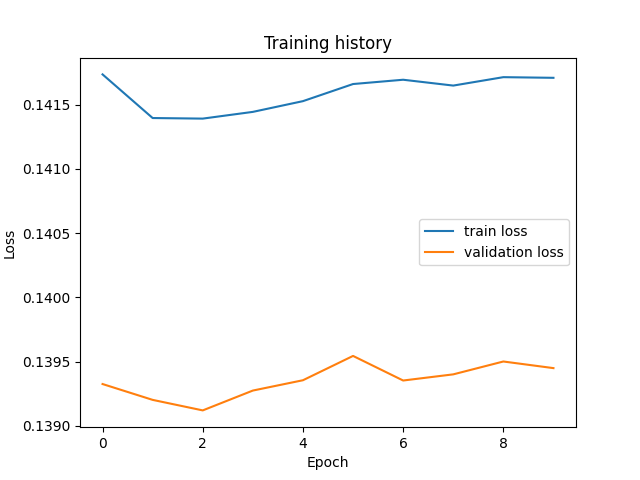
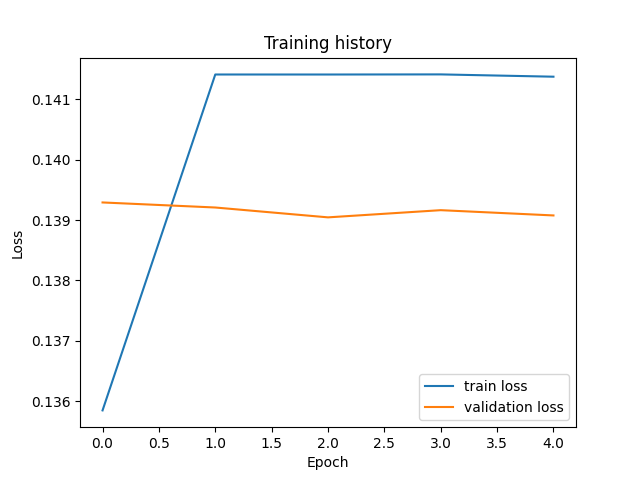
Updated training dataloader
Updated training dataloader to shuffle the dataset.

diff --git a/engine.py b/engine.py
@@ -69,17 +69,19 @@ def get_trainable_params(model, train_dataset, validation_dataset):
   EPOCHS: int
     The number of epochs to train for
   """
-  EPOCHS = 10
+  EPOCHS = 5
   BATCH_SIZE = 16
-  train_data_loader = DataLoader(train_dataset, batch_size=BATCH_SIZE, num_workers=6)
+  train_data_loader = DataLoader(train_dataset, batch_size=BATCH_SIZE, shuffle=True, num_workers=6)
   validation_data_loader = DataLoader(validation_dataset, batch_size=BATCH_SIZE, num_workers=6)
 
   optimizer = AdamW(params=model.parameters(), lr=2e-5)
   total_steps = len(train_data_loader) * EPOCHS
 
-  scheduler = scheduler = get_linear_schedule_with_warmup(
+  print('total_steps:', total_steps)
+  print('warmup_steps:', total_steps // 5)
+  scheduler = get_linear_schedule_with_warmup(
     optimizer,
-    num_warmup_steps=0,
+    num_warmup_steps=total_steps // 5,
     num_training_steps=total_steps
   )
 
@@ -98,7 +100,7 @@ if __name__ == '__main__':
   tokenizer = BertTokenizer.from_pretrained('bert-base-cased')
   encoding = tokenizer.encode_plus(
     df['comment_text'][0],
-    max_length=256,
+    max_length=512,
     add_special_tokens=True,
     return_token_type_ids=False,
     pad_to_max_length=True,
@@ -108,12 +110,13 @@ if __name__ == '__main__':
   encoding.keys()
 
   # Split the data into train and validation sets
-  train_df, validation_df = train_test_split(df, test_size=0.1, random_state=42)
-  print(train_df.shape, validation_df.shape)
+  train_df, validation_df = train_test_split(df, test_size=0.05, random_state=42)
+  print('train_df.shape:', train_df.shape)
+  print('validation_df.shape:', validation_df.shape)
 
   # Create the datasets
-  train_dataset = ToxicDataset(train_df, tokenizer, 256)
-  validation_dataset = ToxicDataset(validation_df, tokenizer, 256)
+  train_dataset = ToxicDataset(train_df, tokenizer, 512)
+  validation_dataset = ToxicDataset(validation_df, tokenizer, 512)
 
   # Select a device
   torch.cuda.empty_cache()
@@ -126,7 +129,7 @@ if __name__ == '__main__':
   model = model.to(device)
 
   # Get the trainable parameters
-  optimizer, scheduler, train_data_loader, validation_data_loader, EPOCHS = get_trainable_params(model, train_dataset, validation_dataset)  
+  optimizer, scheduler, train_data_loader, validation_data_loader, EPOCHS = get_trainable_params(model, train_dataset, validation_dataset)
 
   # Train the model
   train(model, train_data_loader, validation_data_loader, optimizer, device, scheduler, EPOCHS)
@@ -134,7 +137,7 @@ if __name__ == '__main__':
   # Load the data for testing
   test_df = load_df('labeled_test.csv')
   # Create the test dataset
-  test_dataset = ToxicDataset(validation_df, tokenizer, 256)
+  test_dataset = ToxicDataset(validation_df, tokenizer, 512)
   # Create the test data loader
   test_data_loader = DataLoader(test_dataset, batch_size=16, num_workers=6)
 
@@ -147,38 +150,5 @@ if __name__ == '__main__':
   accuracy = Accuracy(task='multilabel', threshold=0.5, num_labels=6)
   print('Accuracy: ', accuracy(y_test, y_pred))
 
-  # auroc = AUROC(task='multilabel', num_labels=6)
-  # # auroc for each class
-  # for i, name in enumerate(df.columns[2:]):
-  #   tag_auroc = auroc(y_pred[:, i], y_test[:, i])
-  #   print(f'{name} AUROC: {tag_auroc}')
-
-
-  y_pred = y_pred.numpy()
-  y_test = y_test.numpy()
-
-  upper, lower = 1, 0
-  y_pred = np.where(y_pred > 0.5, upper, lower)
-
-  # # Get the ROC AUC score
-  # auc = roc_auc_score(y_test, y_pred)
-  # print('ROC AUC score: ', auc)
-  # # Plot the ROC AUC curve
-  # fpr, tpr, _ = roc_curve(y_test, y_pred)
-  # plt.plot(fpr, tpr, label='ROC curve (area = %0.2f)' % auc)
-  # plt.xlabel('False Positive Rate')
-  # plt.ylabel('True Positive Rate')
-  # plt.title('AUC-ROC curve')
-  # plt.legend(loc='lower right')
-  # plt.show()
-  # plt.clf()
-
-  # Get the classification report
-  print(classification_report(y_test, y_pred, target_names=df.columns[2:]))
-
-  # Plot the confusion matrix
-  cm = confusion_matrix(y_test, y_pred)
-  cm = cm.astype('float') / cm.sum(axis=1)[:, np.newaxis]
-  sns.heatmap(cm, annot=True, fmt='.2f', xticklabels=df.columns[2:], yticklabels=df.columns[2:])
-  plt.show()
-
+  np.savetxt('y_pred.csv', y_pred, delimiter=',')
+  

diff --git a/utilities/train_eval.py b/utilities/train_eval.py
@@ -5,6 +5,8 @@ from collections import defaultdict
 
 import torch
 
+import time
+
 
 def train_epoch(model, data_loader, optimizer, device, scheduler=None):
   """
@@ -33,11 +35,15 @@ def train_epoch(model, data_loader, optimizer, device, scheduler=None):
   model = model.train()
   losses = []
 
+  start = time.time()
+
   for d in data_loader:
     input_ids = d['input_ids'].to(device)
     attention_mask = d['attention_mask'].to(device)
     labels = d['labels'].to(device)
 
+    optimizer.zero_grad()
+    
     outputs = model(input_ids=input_ids, attention_mask=attention_mask)
     outputs = torch.sigmoid(outputs)
     
@@ -46,10 +52,10 @@ def train_epoch(model, data_loader, optimizer, device, scheduler=None):
     loss.backward()
     
     optimizer.step()
-    optimizer.zero_grad()
-    
-    if scheduler is not None:
-      scheduler.step()
+    scheduler.step()
+  
+  end = time.time()
+  print(f'Training time: {end - start}')
 
   return np.mean(losses), model
 
@@ -198,7 +204,7 @@ def get_predictions(model, data_loader, device):
       attention_mask = d['attention_mask'].to(device)
       outputs = model(input_ids=input_ids, attention_mask=attention_mask)
       outputs = torch.sigmoid(outputs)
-      preds = torch.round(outputs).float()
+      preds = torch.round(outputs)
       predictions.extend(preds)
       real_values.extend(d['labels'])
   predictions = torch.stack(predictions).cpu()

diff --git a/utilities/model.py b/utilities/model.py
@@ -6,7 +6,6 @@ import torch
 class ToxicClassifier(torch.nn.Module):
   """
   The toxic classifier
-
   Parameters
   ----------
   n_classes: int

diff --git a/README.md b/README.md
@@ -8,4 +8,63 @@ Natural Language Processing system to predict the probability of the toxicity le
 Wikipidia has provided this dataset through a Kaggle competition to explore advanced techniques to identify comments which can be considered toxic behavior. We must create a model which predicts a probability of each type of toxicity for each comment.
 
 
-Accuracy: 96.41%
+### Steps taken for building an optimal NLP system
+1. Exploratory data analysis (EDA) - eda.ipynb
+2. Embedding with BertTokenizer from Hugging-face
+3. Dataloader for the datasets
+4. Build multi-label classifier leveraging the BertModel from the Hugging-face
+5. Train model
+6. Test model
+7. Measure the performance
+
+
+#### 1. Exploratory data analysis (EDA)
+- Gather
+- Asses
+- Clean
+- Explore
+
+#### 2. Embedding with BertTokenizer from Hugging-face
+- Apply BertTokenizer to generate features from the comments' text.
+
+#### 3. Dataloader for the datasets
+- Prepare dataloaders for train, validation and test datasets.
+- Batch size - 16
+
+#### 4. Build multi-label classifier leveraging the BertModel from the Hugging-face
+
+MODEL:
+  BERT Model
+  Liner(bert hidden size, n_classes=6)
+
+#### 5. Train Model
+- Optimizer - AdamW
+- Scheduler - Linear scheduler with warmup to avoid nan issue
+- Epochs - 10
+
+#### 6. Test Model
+- Evaluate the model on the test dataset and get the predicted labels
+
+#### 7. Measure the performance
+- Accuracy - 98.13%
+
+- Classification Report
+
+                      precision    recall  f1-score   support
+
+        toxic              0.68      0.91      0.78       748
+        severe_toxic       0.53      0.30      0.38        80
+        obscene            0.79      0.87      0.83       421
+        threat             0.23      0.38      0.29        13
+        insult             0.79      0.70      0.74       410
+        identity_hate      0.59      0.62      0.60        71
+
+        micro avg          0.72      0.81      0.76      1743
+        macro avg          0.60      0.63      0.60      1743
+        weighted avg       0.72      0.81      0.75      1743
+        samples avg        0.08      0.08      0.08      1743
+
+The combination of accuracy and classification report gives us complete picture of the performance of the model.
+
+### Conclusion
+This natural language processing engine powered by transfer learned Bert model can classify the toxicity of the comment with great accuracy. We achieved ~98.13% accuracy, which is impressive.
